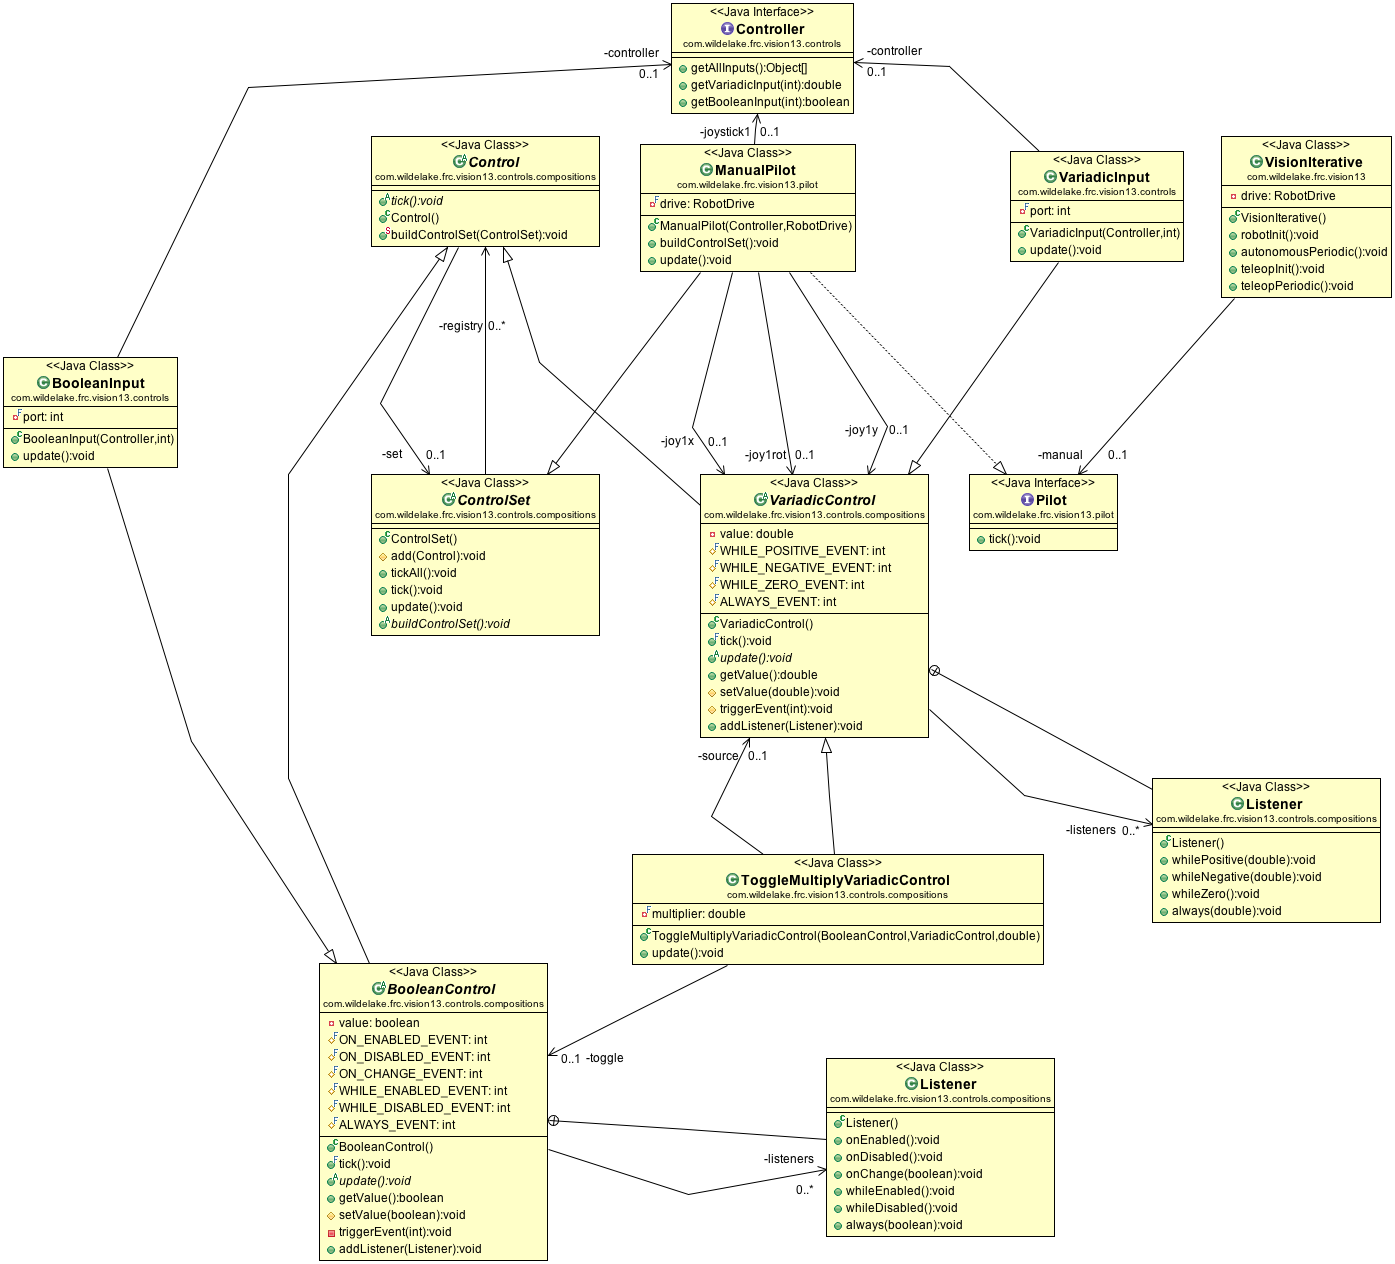
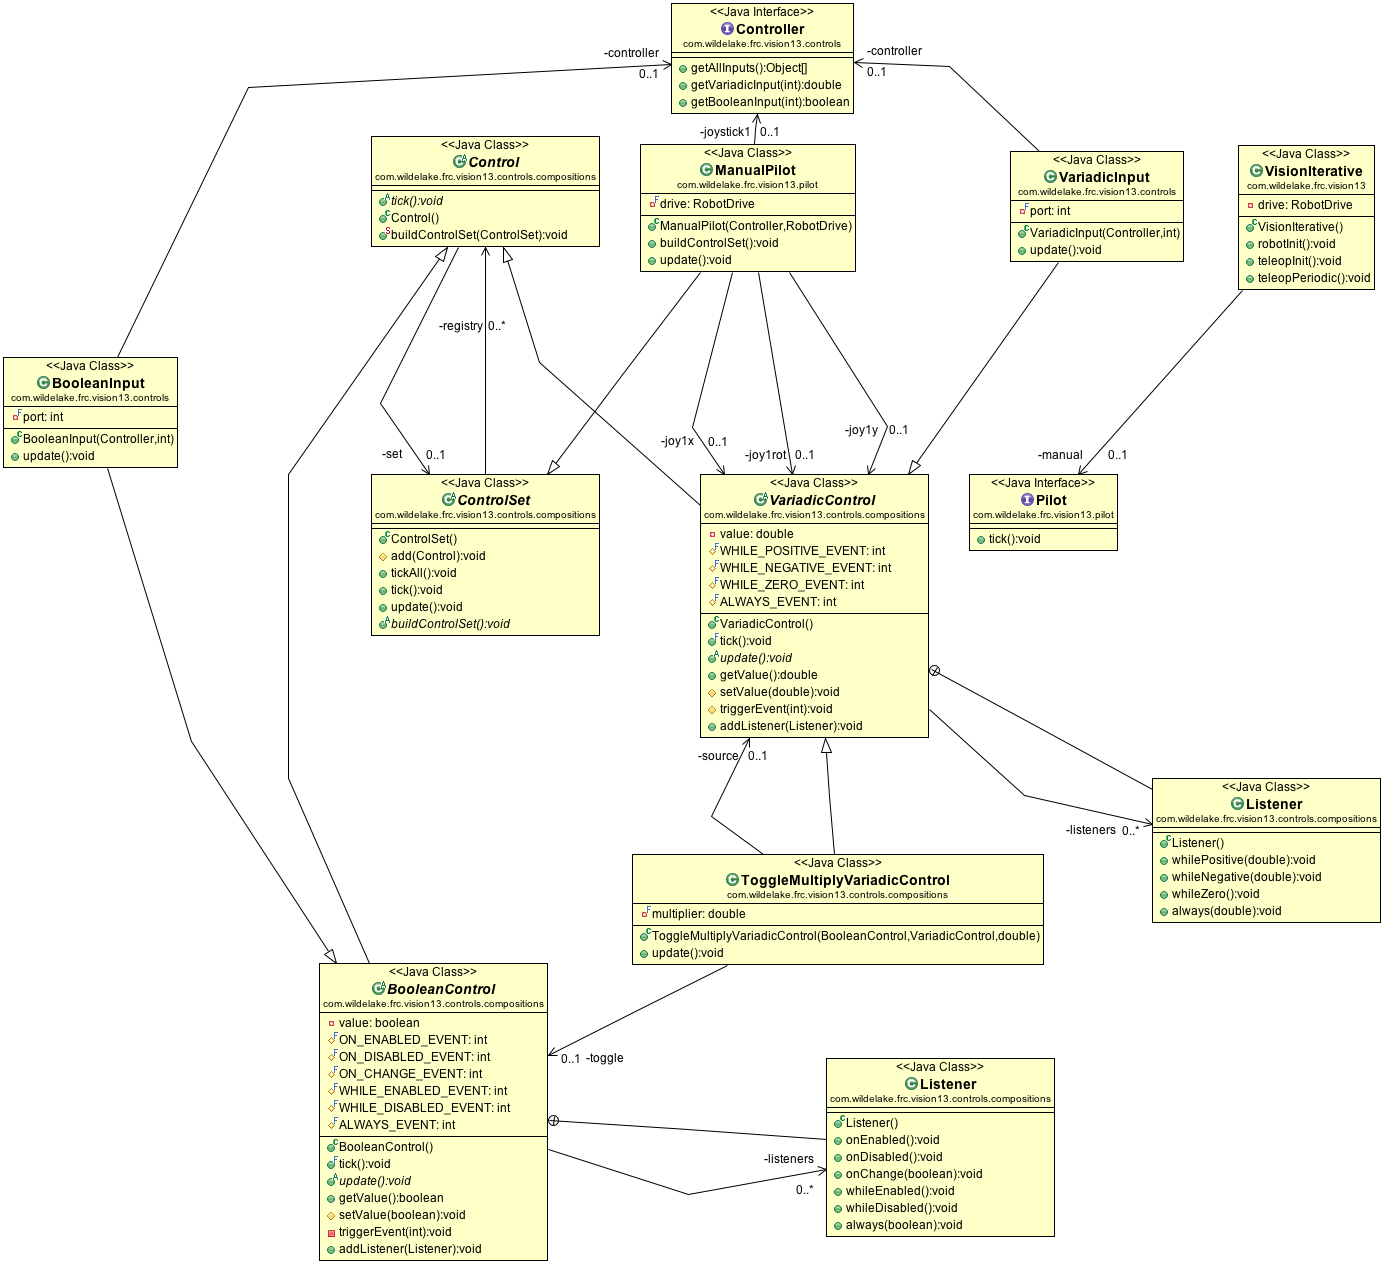
midway through debugging

diff --git a/src/com/wildelake/frc/vision13/pilot/ManualPilot.java b/src/com/wildelake/frc/vision13/pilot/ManualPilot.java
@@ -4,13 +4,9 @@ import com.wildelake.frc.vision13.Port;
 import com.wildelake.frc.vision13.controls.BooleanInput;
 import com.wildelake.frc.vision13.controls.Controller;
 import com.wildelake.frc.vision13.controls.VariadicInput;
-import com.wildelake.frc.vision13.controls.compositions.BooleanControl;
-import com.wildelake.frc.vision13.controls.compositions.Control;
-import com.wildelake.frc.vision13.controls.compositions.ControlSet;
-import com.wildelake.frc.vision13.controls.compositions.MultiplyVariadicControl;
-import com.wildelake.frc.vision13.controls.compositions.ToggleMultiplyVariadicControl;
-import com.wildelake.frc.vision13.controls.compositions.VariadicControl;
+import com.wildelake.frc.vision13.controls.compositions.*;
 
+import edu.wpi.first.wpilibj.Joystick;
 import edu.wpi.first.wpilibj.RobotDrive;
 
 /**
@@ -19,7 +15,8 @@ import edu.wpi.first.wpilibj.RobotDrive;
 public class ManualPilot extends ControlSet implements Pilot {
 	private final Controller joystick1;
 	private final RobotDrive drive;
-	private VariadicControl joy1x, joy1y, joy1rot;
+	private VariadicControl joy1x, joy1y, joy1rot, foo;
+	private BooleanControl button;
 	
 	public ManualPilot(Controller joystick1, RobotDrive drive) {
 		this.joystick1 = joystick1;
@@ -28,7 +25,7 @@ public class ManualPilot extends ControlSet implements Pilot {
 		Control.buildControlSet(this);
 	}
 	
-	@Override
+	
 	public void buildControlSet() {
 		VariadicControl
 			joy1xRaw = new VariadicInput(joystick1, Port.JOY1X),
@@ -48,11 +45,14 @@ public class ManualPilot extends ControlSet implements Pilot {
 		// set up a button to quarter the input for even greater precision
 		joy1x = new ToggleMultiplyVariadicControl(grannySpeed, joy1x, 0.5);
 		joy1y = new ToggleMultiplyVariadicControl(grannySpeed, joy1y, 0.5);
+		
+		foo = new VariadicInput(joystick1, 0);
 	}
 	
-	@Override
+	
 	public void update() {
-		drive.mecanumDrive_Cartesian(joy1x.getValue(), joy1y.getValue(), joy1rot.getValue(), 0);
+//		drive.mecanumDrive_Cartesian(joy1x.getValue(), joy1y.getValue(), joy1rot.getValue(), 0);
+		drive.tankDrive(foo.getValue(), foo.getValue());
 	}
 
 }

diff --git a/src/com/wildelake/frc/vision13/controls/compositions/BooleanControl.java b/src/com/wildelake/frc/vision13/controls/compositions/BooleanControl.java
@@ -1,7 +1,6 @@
 package com.wildelake.frc.vision13.controls.compositions;
 
-import java.util.ArrayList;
-
+import java.util.Vector;
 
 /**
  * 
@@ -9,7 +8,7 @@ import java.util.ArrayList;
  *
  */
 public abstract class BooleanControl extends Control {
-	private ArrayList<Listener> listeners = new ArrayList<Listener>();
+	private Vector listeners = new Vector();
 	private boolean value;
 	
 	public static class Listener {
@@ -36,9 +35,9 @@ public abstract class BooleanControl extends Control {
 	 * TODO make the compiler enforce this if possible
 	 */
 	protected void setValue(boolean value) {
-		boolean oldValue = this.value;
+//		boolean oldValue = this.value;
 		this.value = value;
-		if (oldValue != value) triggerEvent(ON_CHANGE_EVENT);
+//		if (oldValue != value) triggerEvent(ON_CHANGE_EVENT);
 	}
 	
 	protected final int ON_ENABLED_EVENT = 0;
@@ -49,7 +48,8 @@ public abstract class BooleanControl extends Control {
 	protected final int ALWAYS_EVENT = 5;
 	
 	private void triggerEvent(int event) {
-		for (Listener listener : listeners) {
+		for (int i = 0; i < listeners.size(); i++) {
+			Listener listener = (Listener)listeners.elementAt(i);
 			switch (event) {
 			case ON_ENABLED_EVENT: listener.onEnabled(); break;
 			case ON_DISABLED_EVENT: listener.onDisabled(); break;
@@ -71,6 +71,6 @@ public abstract class BooleanControl extends Control {
 	}
 	
 	public void addListener(Listener listener) {
-		listeners.add(listener);
+		listeners.addElement(listener);
 	}
 }

diff --git a/src/com/wildelake/frc/vision13/controls/compositions/VariadicControl.java b/src/com/wildelake/frc/vision13/controls/compositions/VariadicControl.java
@@ -1,13 +1,13 @@
 package com.wildelake.frc.vision13.controls.compositions;
 
-import java.util.ArrayList;
+import java.util.Vector;
 
 /**
  * A standard event-based interface for composing and using variadic inputs
  */
 
 public abstract class VariadicControl extends Control {
-	private ArrayList<Listener> listeners = new ArrayList<Listener>();
+	private Vector listeners = new Vector();
 	private double value;
 	
 	public static class Listener {
@@ -45,7 +45,8 @@ public abstract class VariadicControl extends Control {
 	protected final int ALWAYS_EVENT = 3;
 	
 	protected void triggerEvent(int event) {
-		for (Listener listener : listeners) {
+		for (int i = 0; i < listeners.size(); i++) {
+			Listener listener = (Listener)listeners.elementAt(i);
 			switch (event) {
 			case WHILE_POSITIVE_EVENT: listener.whilePositive(value); break;
 			case WHILE_NEGATIVE_EVENT: listener.whileNegative(value); break;
@@ -62,6 +63,6 @@ public abstract class VariadicControl extends Control {
 	}
 	
 	public void addListener(Listener listener) {
-		listeners.add(listener);
+		listeners.addElement(listener);
 	}
 }

diff --git a/src/com/wildelake/frc/vision13/controls/MyJoystick.java b/src/com/wildelake/frc/vision13/controls/MyJoystick.java
@@ -371,22 +371,15 @@ public class MyJoystick extends Joystick implements IInputOutput, Controller {
     }
     
     /**
-     * Report ALL inputs.
-     */
-    public Object[] getAllInputs() {
-    	return new Object[]{getX(), getY(), m_buttons};
-    }
-    
-    /**
      * Report the input from the actual joystick
      * 
      * @param port Which joystick axis to report. 0 = x; 1 = y
      */
     public double getVariadicInput(int port) {
     	switch (port) {
-    	case 0:  return getX();
-    	case 1:  return getY();
-    	case 2:  return getTwist();
+    	case 1:  return getX();
+    	case 2:  return getY();
+    	case 3:  return getTwist();
     	default: throw new InvalidPortError("Variadic port specified does not exist.");
     	}
     }

diff --git a/src/com/wildelake/frc/vision13/controls/compositions/ControlSet.java b/src/com/wildelake/frc/vision13/controls/compositions/ControlSet.java
@@ -1,20 +1,20 @@
 package com.wildelake.frc.vision13.controls.compositions;
 
-import java.util.ArrayList;
+import java.util.Vector;
 
 /**
  * ControlSet allows for creating multiple sets of controls which can be
  * switched between on the fly.
  */
 public abstract class ControlSet {
-	private final ArrayList<Control> registry = new ArrayList<Control>();
+	private final Vector registry = new Vector();
 	
 	protected void add(Control control) {
-		registry.add(control);
+		registry.addElement(control);
 	}
 	
 	public void tickAll() {
-		for (Control control : registry) control.tick();
+		for (int i = 0; i < registry.size(); i++) ((Control)registry.elementAt(i)).tick();
 	}
 	
 	public void tick() {

diff --git a/src/com/wildelake/frc/vision13/VisionIterative.java b/src/com/wildelake/frc/vision13/VisionIterative.java
@@ -12,6 +12,7 @@ import com.wildelake.frc.vision13.controls.MyJoystick;
 
 import edu.wpi.first.wpilibj.IterativeRobot;
 import edu.wpi.first.wpilibj.Jaguar;
+import edu.wpi.first.wpilibj.Joystick;
 import edu.wpi.first.wpilibj.RobotDrive;
 
 import com.wildelake.frc.vision13.pilot.ManualPilot;
@@ -29,10 +30,6 @@ public class VisionIterative extends IterativeRobot {
 			new CalibratedSpeedController(new Jaguar(Port.BL_MOTOR), Function.calibrator(0, 1, 0, 0, 1, 0)),
 			new CalibratedSpeedController(new Jaguar(Port.BR_MOTOR), Function.calibrator(0, 1, 0, 0, 1, 0))
 		);
-	}
-
-	public void autonomousPeriodic() {
-
 	}
 
 	public void teleopInit() {

diff --git a/src/com/wildelake/frc/vision13/components/CalibratedSpeedController.java b/src/com/wildelake/frc/vision13/components/CalibratedSpeedController.java
@@ -13,27 +13,27 @@ public class CalibratedSpeedController implements SpeedController {
 		this.f = f;
 	}
 
-	@Override
+	
 	public void pidWrite(double output) {
 		scontrol.pidWrite(output);
 	}
 
-	@Override
+	
 	public double get() {
 		return scontrol.get();
 	}
 
-	@Override
+	
 	public void set(double speed, byte syncGroup) {
 		scontrol.set(f.of(speed), syncGroup);
 	}
 
-	@Override
+	
 	public void set(double speed) {
 		scontrol.set(f.of(speed));
 	}
 
-	@Override
+	
 	public void disable() {
 		scontrol.disable();
 	}

diff --git a/src/com/wildelake/frc/vision13/Port.java b/src/com/wildelake/frc/vision13/Port.java
@@ -6,13 +6,13 @@ package com.wildelake.frc.vision13;
  */
 public class Port {
 	public static int
-		FL_MOTOR = 0,
-		FR_MOTOR = 1,
-		BL_MOTOR = 2,
-		BR_MOTOR = 3,
+		FL_MOTOR = 1,
+		FR_MOTOR = 2,
+		BL_MOTOR = 3,
+		BR_MOTOR = 4,
 		
-		JOYSTICK1 = 0,
-		JOYSTICK2 = 1,
+		JOYSTICK1 = 1,
+		JOYSTICK2 = 2,
 		
 		JOY1X = 0,
 		JOY1Y = 1,

diff --git a/src/com/wildelake/frc/vision13/controls/Controller.java b/src/com/wildelake/frc/vision13/controls/Controller.java
@@ -1,7 +1,6 @@
 package com.wildelake.frc.vision13.controls;
 
 public interface Controller {
-	public Object[] getAllInputs();
 	public double   getVariadicInput(int port);
 	public boolean  getBooleanInput (int port);
 }

diff --git a/src/com/wildelake/frc/vision13/controls/BooleanInput.java b/src/com/wildelake/frc/vision13/controls/BooleanInput.java
@@ -12,6 +12,7 @@ public class BooleanInput extends BooleanControl {
 	}
 	
 	public void update() {
-		setValue(controller.getBooleanInput(port));
+//		setValue(controller.getBooleanInput(port));
+		setValue(true);
 	}
 }
